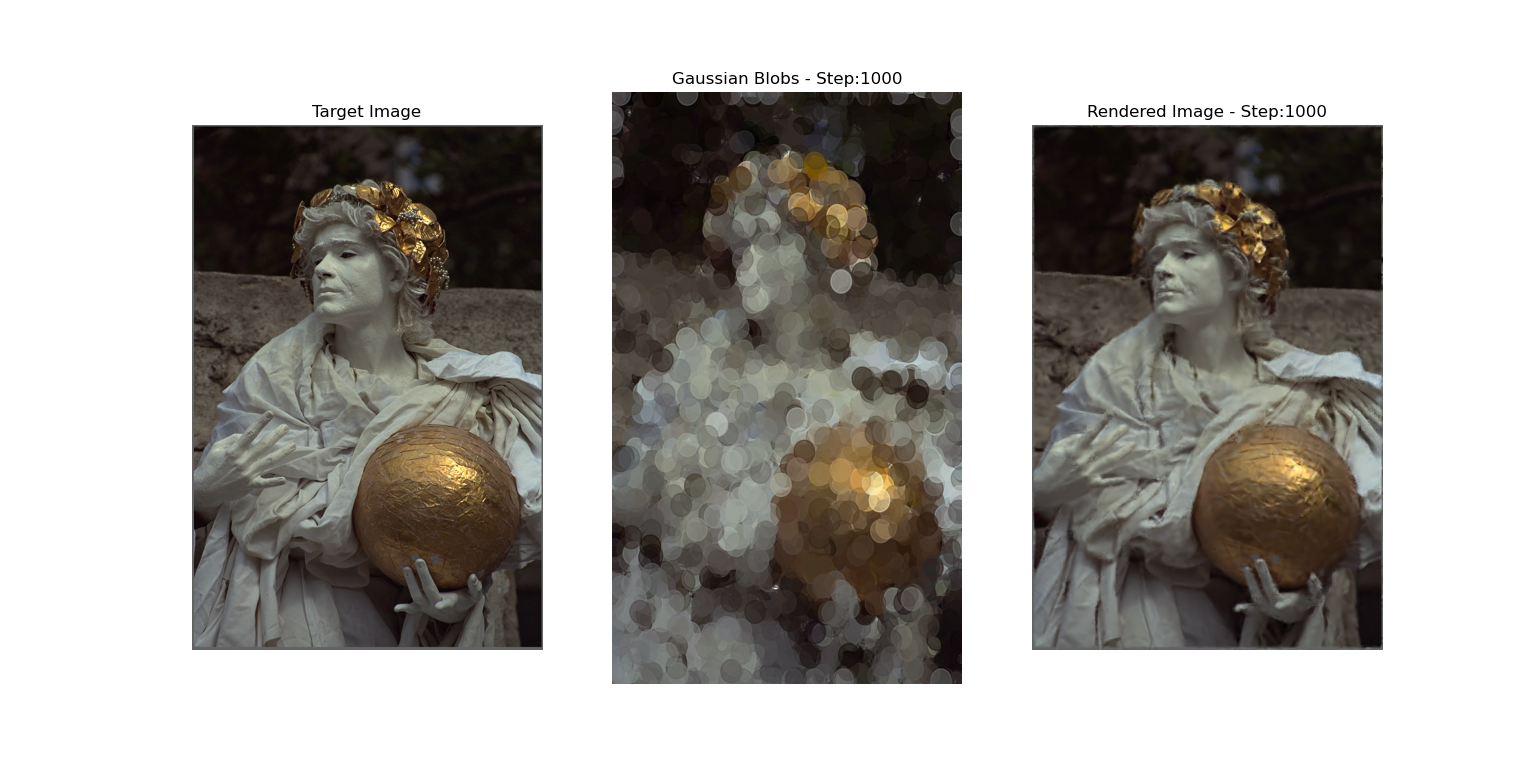
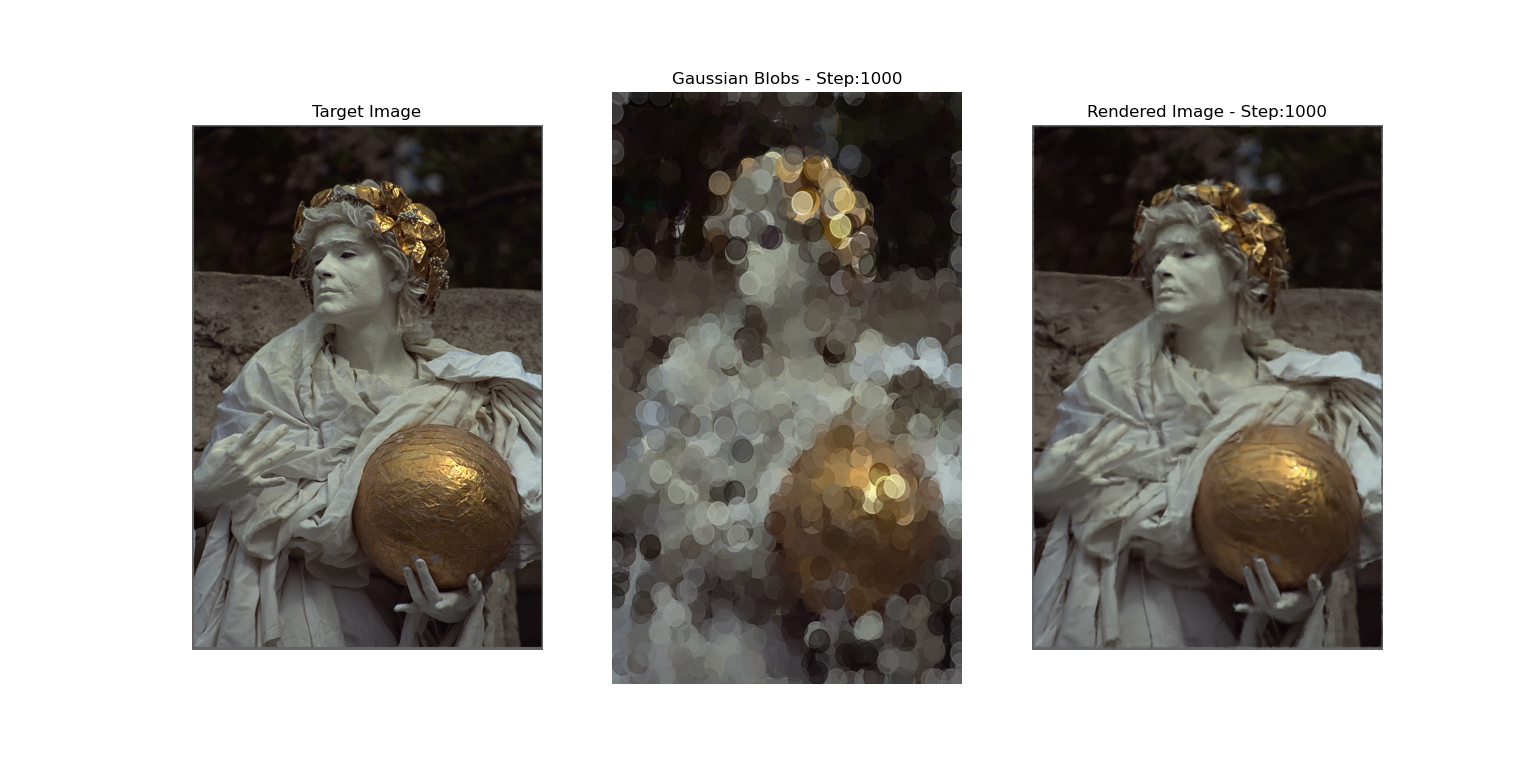
Fix inv

diff --git a/model.py b/model.py
@@ -91,24 +91,25 @@ class ImageGSOptimizer:
 
         means = torch.stack([xs.float(), ys.float()], dim=1).to(self.device)
         rotations = torch.zeros(N_init, device=self.device)
-        log_scales = torch.full((N_init,2), math.log(self.init_scale_pixels), device=self.device)
+        # log_scales = torch.full((N_init,2), math.log(self.init_scale_pixels), device=self.device)
+        inv_scales = torch.full((N_init,2), 1.0/self.init_scale_pixels, device=self.device)
         colors = self.target_image[ys, xs, :].to(self.device).float()
 
         means.requires_grad_(True)
         rotations.requires_grad_(True)
-        log_scales.requires_grad_(True)
+        inv_scales.requires_grad_(True)
         colors.requires_grad_(True)
 
-        return means, rotations, log_scales, colors
+        return means, rotations, inv_scales, colors
 
     # ------------------------------
     # Optimizer Setup
     # ------------------------------
-    def make_optimizer(self, means, rotations, log_scales, colors):
+    def make_optimizer(self, means, rotations, inv_scales, colors):
         return optim.Adam([
             {"params":[means], "lr":5e-4},
             {"params":[colors], "lr":5e-3},
-            {"params":[log_scales], "lr":2e-3},
+            {"params":[inv_scales], "lr":2e-3},
             {"params":[rotations], "lr":2e-3},
         ])
 
@@ -117,18 +118,18 @@ class ImageGSOptimizer:
     # ------------------------------
     def optimize(self, visualize_interval=500, plot_last=True):
         # Initialization
-        means, rotations, log_scales, colors = self.initialize_gaussians()
-        optimizer = self.make_optimizer(means, rotations, log_scales, colors)
+        means, rotations, inv_scales, colors = self.initialize_gaussians()
+        optimizer = self.make_optimizer(means, rotations, inv_scales, colors)
         N_current = means.shape[0]
         add_steps = set(range(self.add_interval, self.steps+1, self.add_interval))
         saved_debug = {}
 
-        self.visualize('Initialization', means, log_scales, rotations, colors, rendered=None)
+        self.visualize('Initialization', means, inv_scales, rotations, colors, rendered=None)
 
 
         for step in tqdm(range(1, self.steps+1), desc="Rendering Image"):
             optimizer.zero_grad()
-            rendered = self.renderer(means, rotations, log_scales, colors)
+            rendered = self.renderer(means, rotations, inv_scales, colors)
             loss_l1 = self.l1(rendered, self.target_image)
             loss_mssim = 1.0 - self.ms_ssim_fn(rendered.permute(2,0,1).unsqueeze(0),
                                               self.target_image.permute(2,0,1).unsqueeze(0))
@@ -139,7 +140,7 @@ class ImageGSOptimizer:
             # Clamp physically valid ranges
             with torch.no_grad():
                 # inv_scales should be positive (paper uses 1/s). Clamp to avoid sign flips.
-                #inv_scales.clamp_(min=1e-4, max=1.0)  # min corresponds to large s, max to s=1
+                inv_scales.clamp_(min=1e-4, max=1.0)  # min corresponds to large s, max to s=1
                 # rotations in [0, pi]
                 rotations[:] = torch.remainder(rotations, math.pi)
                  # colors in [0,1]
@@ -156,27 +157,28 @@ class ImageGSOptimizer:
 
                     new_means = torch.stack([xs_add.float(), ys_add.float()], dim=1).to(self.device)
                     new_rot = torch.zeros(n_add, device=self.device)
-                    new_log_sc = torch.full((n_add,2), math.log(self.init_scale_pixels), device=self.device)
+                    # new_log_sc = torch.full((n_add,2), math.log(self.init_scale_pixels), device=self.device)
+                    new_log_sc = torch.full((n_add,2), 1.0/self.init_scale_pixels, device=self.device)
                     new_colors = self.target_image[ys_add, xs_add, :].to(self.device).float()
 
                     # Concatenate to params
                     means = torch.cat([means.detach(), new_means], dim=0).requires_grad_(True)
                     rotations = torch.cat([rotations.detach(), new_rot], dim=0).requires_grad_(True)
-                    log_scales = torch.cat([log_scales.detach(), new_log_sc], dim=0).requires_grad_(True)
+                    inv_scales = torch.cat([inv_scales.detach(), new_log_sc], dim=0).requires_grad_(True)
                     colors = torch.cat([colors.detach(), new_colors], dim=0).requires_grad_(True)
                     N_current = means.shape[0]
-                    optimizer = self.make_optimizer(means, rotations, log_scales, colors)
+                    optimizer = self.make_optimizer(means, rotations, inv_scales, colors)
 
             # Save debug info
             if step % visualize_interval == 0 or step == 1 or step == self.steps:
                 saved_debug[step] = {"loss": loss.item(), "N": N_current, "rendered": rendered.detach().cpu()}
-                self.visualize(step, means, log_scales, rotations, colors, rendered, plot=False)
+                self.visualize(step, means, inv_scales, rotations, colors, rendered, plot=False)
 
-        self.visualize('Final', means, log_scales, rotations, colors, rendered, plot=True)
+        self.visualize('Final', means, inv_scales, rotations, colors, rendered, plot=True)
 
-        return means, rotations, log_scales, colors, saved_debug
+        return means, rotations, inv_scales, colors, saved_debug
     
-    def visualize(self, step, means, log_scales, rotations, colors, rendered=None, plot=False):
+    def visualize(self, step, means, inv_scales, rotations, colors, rendered=None, plot=False):
         # Set figsize and DPI so that HxW pixels exactly
         dpi = 100
         if rendered is not None: 
@@ -191,7 +193,8 @@ class ImageGSOptimizer:
         axes[0].axis('off')
         
         axes[1].set_facecolor('black')
-        scales = torch.exp(log_scales).detach().cpu().numpy()
+        #scales = torch.exp(inv_scales).detach().cpu().numpy()
+        scales = 1.0 / inv_scales.detach().cpu().numpy()
         means_np = means.detach().cpu().numpy()
         rotations_np = rotations.detach().cpu().numpy()
         colors_np = colors.detach().cpu().numpy()
@@ -238,4 +241,4 @@ if __name__ == "__main__":
 
     optimizer = ImageGSOptimizer(target_image, save_dir="gs_output", device=device,
                                  N_total=10000, steps=1500, H_t=16, W_t=16, add_interval=250)
-    means, rotations, log_scales, colors, debug = optimizer.optimize()
+    means, rotations, inv_scales, colors, debug = optimizer.optimize()
